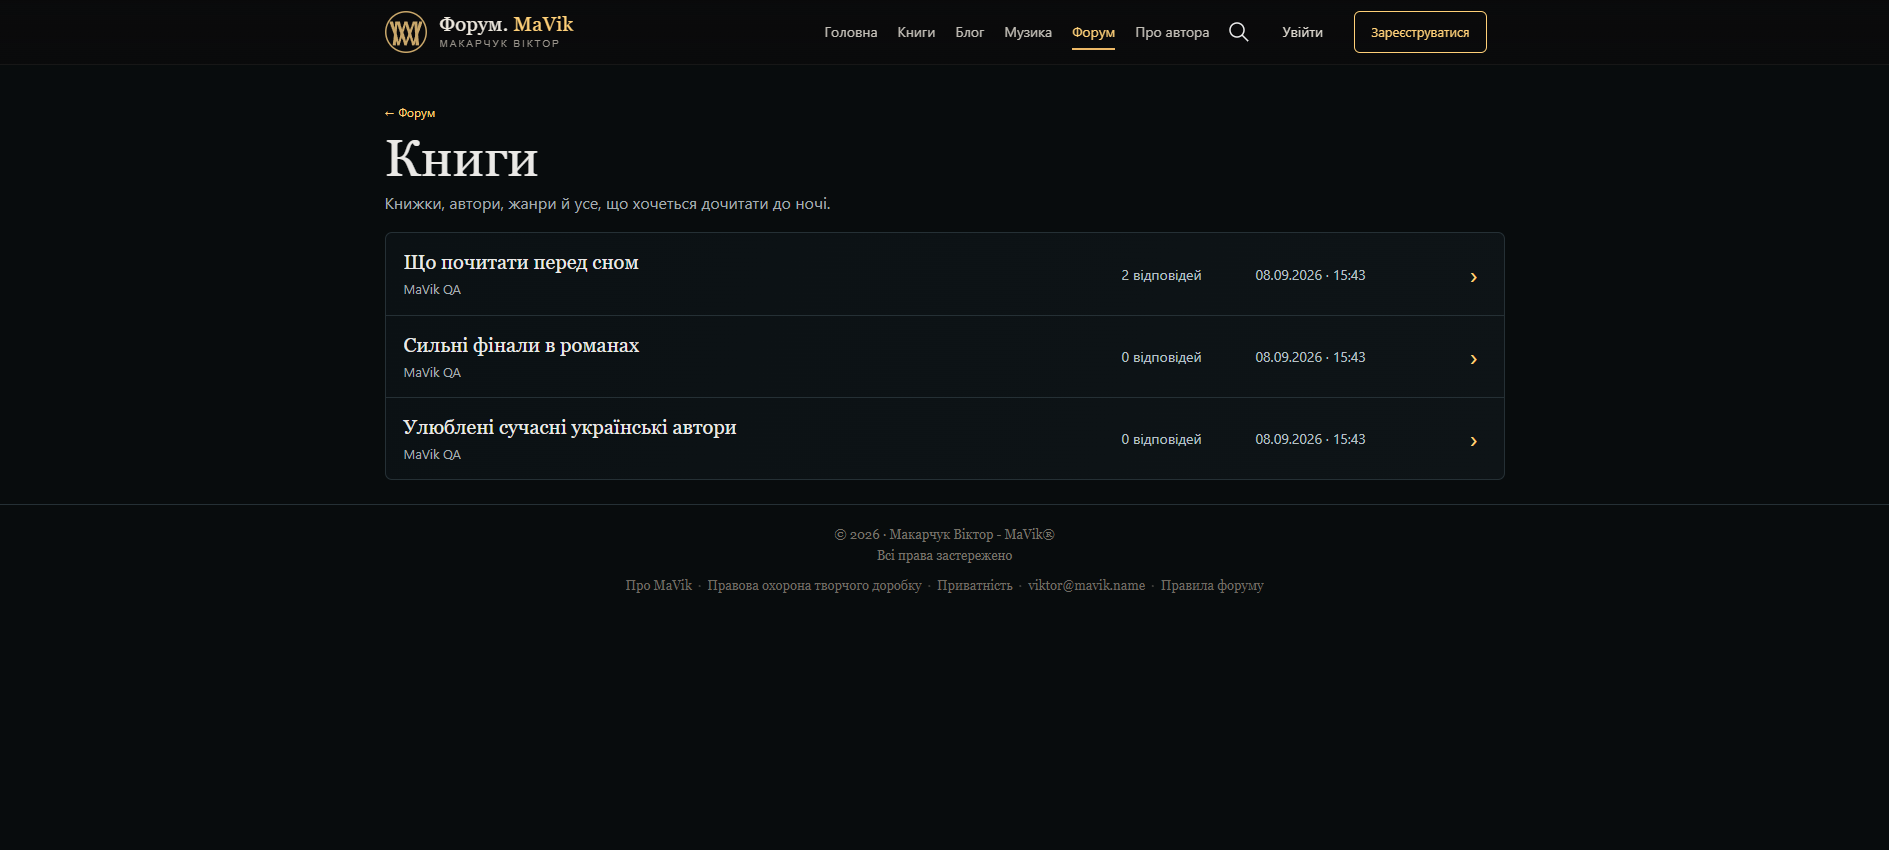
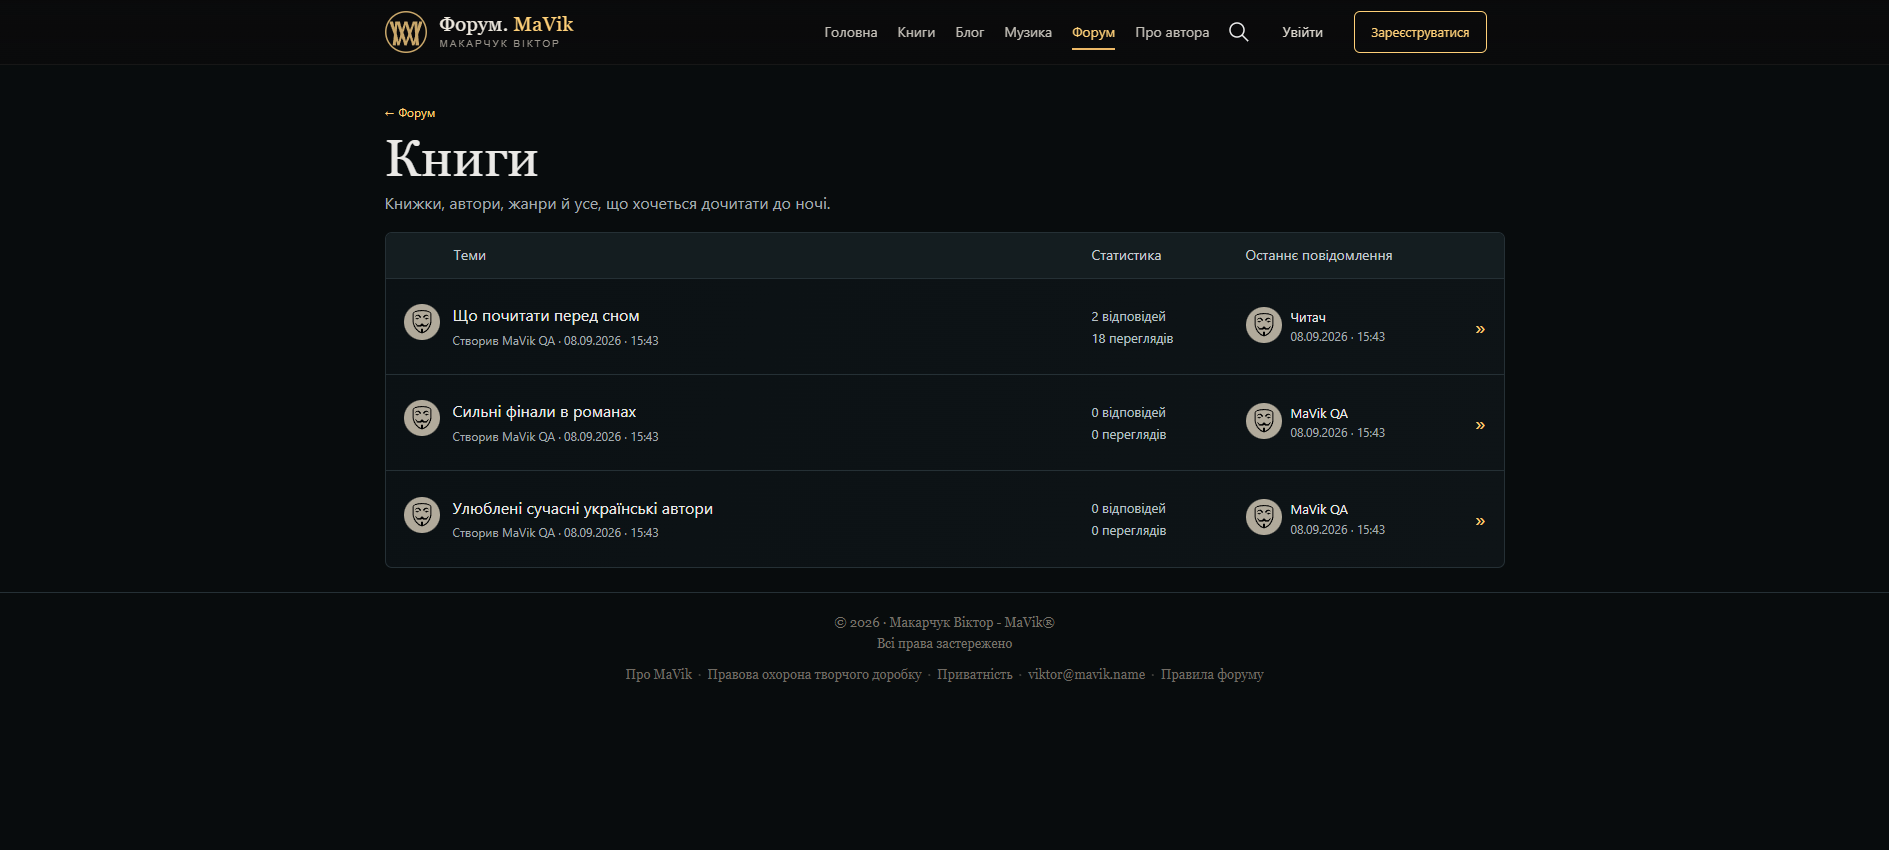
Refine category presentation and remove duplicate admin entry

diff --git a/mavik-sklad/files/forum/releases/0.9.1/source/assets/release.css b/mavik-sklad/files/forum/releases/0.9.1/source/assets/release.css
@@ -110,3 +110,11 @@ body{background:var(--bg);color:var(--text)}
 .post-quote{font-size:18px;line-height:1.5;margin:16px 0;padding:12px 16px 12px 62px;border-left-width:4px;background:rgba(207,217,223,.055);border-radius:0 5px 5px 0}.post-quote:before{font-size:68px;left:13px;top:6px}.post-quote cite{margin-bottom:9px}
 .post-actions{margin-top:20px;padding-top:12px;gap:10px}.post-actions button,.post-actions .btn{font-size:15px;line-height:1.3;padding:8px 13px;border-radius:5px;color:#d7dad9}.edited{font-size:14px}.topic-page .ui-icon{width:21px;height:21px}
 @media(max-width:780px){.topic-title h1{font-size:32px}.topic-heading-bottom p{font-size:19px}.breadcrumbs{font-size:13px}.post-card{grid-template-columns:1fr}.post-author{padding:13px 15px}.post-author>.avatar{width:48px;height:48px;margin:0}.post-author strong{font-size:18px}.post-author span{font-size:13px;margin:0}.profile-metadata{font-size:12px;margin-top:4px}.post-content{padding:16px}.post-body{font-size:17px;line-height:1.55}.post-meta{font-size:13px}.post-quote{font-size:17px;padding:12px 12px 12px 44px}.post-quote:before{font-size:53px;left:7px}.topic-heading-actions .btn{min-width:0;min-height:44px;font-size:15px}.post-actions button,.post-actions .btn{min-height:44px}.topic-title:before{background-position:right top;opacity:.45}}
+/* User-supplied topic-list composition; keep the MaVik palette. */
+.category-list-head,.category-topic-row{display:grid;grid-template-columns:minmax(0,1fr) 130px 240px;gap:24px}
+.category-list-head{padding:12px 18px;background:#141d20;border-bottom:1px solid var(--line);font-size:14px;color:#c4ccd0}.category-list-head>span:first-child{padding-left:50px}
+.category-topic-row{padding:20px 18px;min-height:96px}.category-topic-summary{display:flex;align-items:flex-start;gap:13px;min-width:0}.category-topic-summary>.avatar,.category-topic-last>.avatar{width:36px;height:36px}
+.category-topic-copy strong{font:400 16px/1.4 'Segoe UI',Arial,sans-serif}.category-topic-copy>span{font-size:12px;line-height:1.5;margin-top:4px}
+.category-topic-meta{display:block;font-size:13px;line-height:1.7}.category-topic-last{display:flex;gap:9px;align-items:flex-start;min-width:0;font-size:13px;line-height:1.6}.category-topic-last>div{min-width:0}.category-topic-last time{display:block;color:var(--muted);font-size:12px}.category-topic-arrow{font-size:21px;align-self:center;margin-left:auto}
+@media(max-width:780px){.category-list-head{display:none}.category-topic-row{grid-template-columns:minmax(0,1fr);gap:12px;padding:16px 14px}.category-topic-summary{grid-column:1;grid-row:auto}.category-topic-copy{grid-column:auto;grid-row:auto}.category-topic-meta{grid-column:1;grid-row:auto;display:flex;gap:16px;padding-left:49px;font-size:12px}.category-topic-last{grid-column:1;padding-left:49px;font-size:12px}.category-topic-last>.avatar{width:28px;height:28px}.category-topic-last time{font-size:11px}.category-topic-arrow{grid-column:auto;grid-row:auto}}
+.category-topic-summary>.category-topic-copy{flex:1}.header-inner>a:last-child{white-space:nowrap}

diff --git a/mavik-sklad/files/forum/releases/0.9.1/source/category.php b/mavik-sklad/files/forum/releases/0.9.1/source/category.php
@@ -1,21 +1,24 @@
 <?php
 require __DIR__.'/app/bootstrap.php'; maintenance_gate();
 $slug=(string)($_GET['slug']??''); $st=db()->prepare('SELECT * FROM categories WHERE slug=? AND is_visible=1'); $st->execute([$slug]); $cat=$st->fetch(); if(!$cat){http_response_code(404);exit('Категорію не знайдено');}
-$st=db()->prepare('SELECT t.*,u.display_name,(SELECT COUNT(*) FROM posts p WHERE p.topic_id=t.id AND p.is_hidden=0) replies FROM topics t LEFT JOIN users u ON u.id=t.user_id WHERE t.category_id=? AND t.is_hidden=0 ORDER BY t.is_pinned DESC,t.last_activity_at DESC,t.id DESC');$st->execute([$cat['id']]);$topics=$st->fetchAll();
+$st=db()->prepare('SELECT t.*,u.display_name,u.avatar_path,lu.display_name last_author,lu.avatar_path last_avatar,lp.id last_post_id,(SELECT COUNT(*) FROM posts p WHERE p.topic_id=t.id AND p.is_hidden=0) replies FROM topics t LEFT JOIN users u ON u.id=t.user_id LEFT JOIN posts lp ON lp.id=(SELECT p2.id FROM posts p2 WHERE p2.topic_id=t.id AND p2.is_hidden=0 ORDER BY p2.created_at DESC,p2.id DESC LIMIT 1) LEFT JOIN users lu ON lu.id=lp.user_id WHERE t.category_id=? AND t.is_hidden=0 ORDER BY t.is_pinned DESC,t.last_activity_at DESC,t.id DESC');$st->execute([$cat['id']]);$topics=$st->fetchAll();
 forum_header($cat['title']); ?>
 <section class="page-title"><a href="/">← Форум</a><h1><?=e($cat['title'])?></h1><p><?=e($cat['description'])?></p></section>
 <div class="category-topics">
+<div class="category-list-head"><span>Теми</span><span>Статистика</span><span>Останнє повідомлення</span></div>
 <?php foreach($topics as $t): ?>
   <a class="category-topic-row" href="/topic.php?slug=<?=urlencode($t['slug'])?>">
-    <div class="category-topic-copy">
+    <div class="category-topic-summary"><?=avatar($t['avatar_path'],$t['display_name']??'Автор')?><div class="category-topic-copy">
       <strong><?=e($t['title'])?></strong>
-      <span><?=e($t['display_name']??'Автор')?><?=$t['is_pinned']?' · закріплено':''?></span>
-    </div>
+      <span>Створив <?=e($t['display_name']??'Автор')?> · <?=e(format_forum_date($t['created_at']))?><?=$t['is_pinned']?' · закріплено':''?></span>
+    </div></div>
     <div class="category-topic-meta">
       <span class="category-topic-replies"><?=(int)$t['replies']?> відповідей</span>
-      <time datetime="<?=e(str_replace(' ','T',$t['last_activity_at']))?>"><?=e(format_forum_date($t['last_activity_at']))?></time>
+      <span><?=(int)$t['views']?> переглядів</span>
     </div>
-    <span class="category-topic-arrow" aria-hidden="true">›</span>
+    <div class="category-topic-last"><?=avatar($t['last_post_id']?$t['last_avatar']:$t['avatar_path'],$t['last_author']??$t['display_name']??'Учасник')?><div><span><?=e($t['last_author']??$t['display_name']??'Учасник')?></span>
+      <time datetime="<?=e(str_replace(' ','T',$t['last_activity_at']))?>"><?=e(format_forum_date($t['last_activity_at']))?></time>
+    </div><span class="category-topic-arrow" aria-hidden="true">»</span></div>
   </a>
 <?php endforeach; ?>
 <?php if(!$topics):?><p class="category-topics-empty">У цій категорії поки немає тем.</p><?php endif;?>

diff --git a/mavik-sklad/files/forum/releases/0.9.1/source/index.php b/mavik-sklad/files/forum/releases/0.9.1/source/index.php
@@ -58,7 +58,7 @@ forum_header('Форум');
 </section>
 
 <aside>
-  <div class="panel welcome-panel"><h3>Ласкаво просимо!</h3><p>Приєднуйтесь до спільноти, щоб брати участь в обговореннях, ділитися думками та знаходити однодумців.</p><?php if(is_admin()): ?><a class="btn primary block" href="/admin/">Адмінка форуму</a><?php elseif(is_logged_in()): ?><a class="btn primary block" href="/new-topic.php">Створити тему</a><?php else: ?><a class="btn primary block" href="/auth.php?mode=register">Зареєструватися</a><p class="welcome-login">Вже маєте акаунт? <a href="/auth.php">Увійти</a></p><?php endif; ?></div>
+  <div class="panel welcome-panel"><h3>Ласкаво просимо!</h3><p>Приєднуйтесь до спільноти, щоб брати участь в обговореннях, ділитися думками та знаходити однодумців.</p><?php if(is_logged_in()): ?><a class="btn primary block" href="/new-topic.php">Створити тему</a><?php else: ?><a class="btn primary block" href="/auth.php?mode=register">Зареєструватися</a><p class="welcome-login">Вже маєте акаунт? <a href="/auth.php">Увійти</a></p><?php endif; ?></div>
   <div class="panel"><h3><span class="heading-icon"><?=category_icon('vilne')?></span>Останні обговорення</h3><div class="aside-discussions"><?php foreach(array_slice($latest,0,5) as $t):?><a href="/topic.php?slug=<?=urlencode($t['slug'])?>"><?=avatar($t['last_avatar'],$t['last_author'])?><span><strong><?=e($t['title'])?></strong><small><?=e($t['last_author'])?> · <?=e(format_forum_date($t['last_activity_at']))?></small></span></a><?php endforeach;?></div></div>
   <div class="panel rules-mini"><h3><span class="heading-icon"><?=category_icon('blog-i-teksty')?></span>Правила форуму</h3><ol><li>Повага одне до одного</li><li>Без спаму й образ</li><li>Писати можна про все</li></ol><a class="quiet-link" href="/rules.php">Усі правила →</a></div>
   <div class="panel"><h3><span class="heading-icon"><svg viewBox="0 0 24 24"><path d="M3 3h8l10 10-8 8L3 11z"/><circle cx="7" cy="7" r="1"/></svg></span>Популярні теги</h3><div class="tags"><span>#книги</span><span>#українська_література</span><span>#поезія</span><span>#музика</span><span>#читання</span><span>#рекомендації</span><span>#есе</span><span>#дискусія</span></div></div>

diff --git a/mavik-sklad/files/forum/releases/0.9.1/source/app/bootstrap.php b/mavik-sklad/files/forum/releases/0.9.1/source/app/bootstrap.php
@@ -139,7 +139,7 @@ function format_forum_date(string $date): string {
 
 function forum_header(string $title): void {
     $maintenance = setting('maintenance_mode','1') === '1';
-    $accountLabel = is_admin() ? 'Адмінка' : (is_logged_in() ? 'Профіль' : 'Увійти');
+    $accountLabel = is_admin() ? 'Адмінка форуму' : (is_logged_in() ? 'Профіль' : 'Увійти');
     $accountUrl = is_admin() ? '/admin/' : (is_logged_in() ? '/profile.php' : '/auth.php');
     ?>
 <!doctype html>

diff --git a/mavik-sklad/files/forum/releases/0.9.1/CHECKPOINT.md b/mavik-sklad/files/forum/releases/0.9.1/CHECKPOINT.md
@@ -2,7 +2,7 @@
 
 Повний актуальний код: source/. Пакет: forum_mavik_test_build_0.9.1.zip. База: попередній реліз ../0.9/ (історія та оригінали там збережені).
 
-Останні прямі вказівки користувача: виправити зламану категорію зі скриншота; збільшити знак до материнського сайту; звузити весь форум до материнського сайту. Параметри взяті з локальної R300: assets/core/site.css та home HTML — 1120px, SVG 42/40px. Оригінальний mobile MaVik logo має пріоритет над взірцевим PNG. Попередній опис ширини 1480px більше не застосовувати. Нижня кава прибрана, стрілка праворуч. Реєстрація — підпис і дата у два рядки. Останній запит: делікатніша типографіка та пропорції за референсом; зменшені елементи теми, чистий фон без дубльованих кнопок.
+Останні прямі вказівки користувача: виправити зламану категорію зі скриншота; збільшити знак до материнського сайту; звузити весь форум до материнського сайту. Параметри взяті з локальної R300: assets/core/site.css та home HTML — 1120px, SVG 42/40px. Оригінальний mobile MaVik logo має пріоритет над взірцевим PNG. Попередній опис ширини 1480px більше не застосовувати. Нижня кава прибрана, стрілка праворуч. Реєстрація — підпис і дата у два рядки. Новий референс списку тем застосований до категорій, кольори не переносилися. Вхід до адмінки лише у шапці; привітання веде до створення теми. Останній запит: делікатніша типографіка та пропорції за референсом; зменшені елементи теми, чистий фон без дубльованих кнопок.
 
 90 нових перевірок пройдені; qa містить результати, скрипти й скриншоти. Для повторення: використати ізольовану тестову інсталяцію (попередня ../0.9/QA.md), замінити код на source/, запускати на 127.0.0.1:8099. PLAYWRIGHT_MODULE вказує пакет Playwright; браузер Edge. Тестові акаунти/БД не зберігати у GitHub.
 

diff --git a/mavik-sklad/files/forum/releases/0.9.1/RELEASE-NOTES.md b/mavik-sklad/files/forum/releases/0.9.1/RELEASE-NOTES.md
@@ -1,5 +1,7 @@
 # Forum MaVik 0.9.1 — виправлення після тесту
 
+- Застосовано новий зразок подачі списку тем: аватар, тема й автор/дата створення; статистика; аватар, автор і дата останнього повідомлення. Кольори MaVik збережені.
+- Прибрано дубль входу в адмінку: у шапці «Адмінка форуму», у привітанні «Створити тему».
 - Виправлено сторінку категорії: назва та автор у широкій колонці, кількість відповідей і дата окремо. На mobile метадані переходять під назву. Власні CSS-класи більше не успадковують шестиколонкову сітку головної.
 - Форум, шапка і вміст звужені до канону материнського сайту: 1120px desktop; 920px на проміжних ширинах; мобільна оболонка до 640px із внутрішніми полями 16px.
 - Маленький PNG логотипа замінено оригінальним assets/brand/mavik-mvv-gold.svg з R300. Знак займає 42px desktop / 40px mobile без зайвих полів; посилання веде на головну форуму.

diff --git a/mavik-sklad/files/forum/releases/0.9.1/source/README-0.9.1.md b/mavik-sklad/files/forum/releases/0.9.1/source/README-0.9.1.md
@@ -1,5 +1,7 @@
 # Forum MaVik 0.9.1 — виправлення після тесту
 
+- Застосовано новий зразок подачі списку тем: аватар, тема й автор/дата створення; статистика; аватар, автор і дата останнього повідомлення. Кольори MaVik збережені.
+- Прибрано дубль входу в адмінку: у шапці «Адмінка форуму», у привітанні «Створити тему».
 - Виправлено сторінку категорії: назва та автор у широкій колонці, кількість відповідей і дата окремо. На mobile метадані переходять під назву. Власні CSS-класи більше не успадковують шестиколонкову сітку головної.
 - Форум, шапка і вміст звужені до канону материнського сайту: 1120px desktop; 920px на проміжних ширинах; мобільна оболонка до 640px із внутрішніми полями 16px.
 - Маленький PNG логотипа замінено оригінальним assets/brand/mavik-mvv-gold.svg з R300. Знак займає 42px desktop / 40px mobile без зайвих полів; посилання веде на головну форуму.
